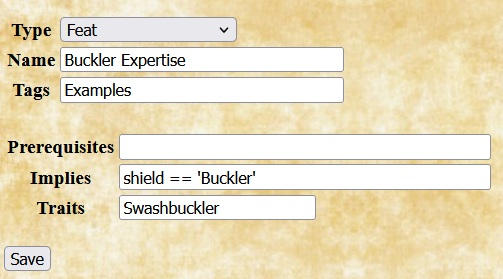
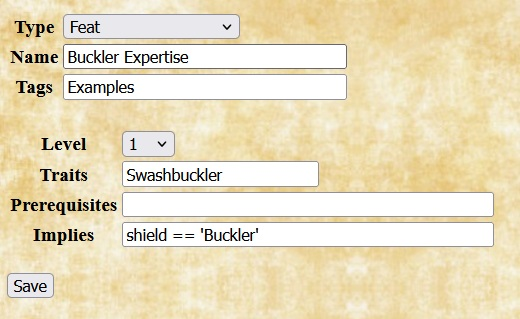
Finish work on randomizing feats.

diff --git a/plugins/Pathfinder2E.js b/plugins/Pathfinder2E.js
@@ -16339,7 +16339,7 @@ Pathfinder2E.NAME_COMPONENTS = {
     ],
     formats: ['%{syllables}']
   },
-  // Consonents and clusters taken from rule book sample names, with some
+  // Consonants and clusters taken from rule book sample names, with some
   // additional clusters that seem appropriate
   Dwarf: {
     leading: 'bdgklmnprstyz'.split(''),
@@ -16595,6 +16595,7 @@ Pathfinder2E.randomizeOneAttribute = function(attributes, attribute) {
       // It's possible that such a feat might be selected by the second pass,
       // leaving a choice unfilled, but the odds are low enough that figuring
       // out how to handle the case seems not worth the effort.
+      // See >>> note below that assumes that General is the last in this list
       subsets = [
         'Ancestry', 'Class', 'Skill', 'General',
         'Ancestry', 'Class', 'Skill', 'General'
@@ -16652,64 +16653,70 @@ Pathfinder2E.randomizeOneAttribute = function(attributes, attribute) {
           if(m) {
             debug.push(selection);
             howMany = +m[1];
-            choices = Object.keys(allChoices);
+            let subsetChoices = Object.keys(allChoices);
             if(subset == 'Ancestry') {
-              choices =
-                choices.filter(x => QuilvynUtils.getAttrValueArray(allChoices[x], 'Traits').includes(attributes.ancestry));
+              subsetChoices =
+                subsetChoices.filter(x => QuilvynUtils.getAttrValueArray(allChoices[x], 'Traits').includes(attributes.ancestry));
               for(let a in this.getChoices('ancestrys'))
                 if('features.Adopted Ancestry (' + a + ')' in attrs)
-                  choices =
-                    choices.concat(Object.keys(allChoices).filter(x => QuilvynUtils.getAttrValueArray(allChoices[x], 'Traits').includes(a)));
+                  subsetChoices =
+                    subsetChoices.concat(Object.keys(allChoices).filter(x => QuilvynUtils.getAttrValueArray(allChoices[x], 'Traits').includes(a)));
             } else if(subset == 'Class') {
-              choices =
-                choices.filter(x => QuilvynUtils.getAttrValueArray(allChoices[x], 'Traits').filter(x => x == attributes['class'] || x == 'Dedication').length > 0)
+              subsetChoices =
+                subsetChoices.filter(x => QuilvynUtils.getAttrValueArray(allChoices[x], 'Traits').filter(x => x == attributes['class'] || x == 'Dedication').length > 0);
               for(attr in attributes) {
-                if(attr.match(/^.*Dedication$/))
-                  choices =
-                    choices.concat(
+                if(attr.match(/^.*Dedication$/)) {
+                  attr = attr.replace(/^.*\./, '');
+                  debug.push('Add ' + attr + ' feats');
+                  // Most Dedication-dependent feats list the Dedication feat
+                  // in their requirements; any others won't be randomly chosen
+                  subsetChoices =
+                    subsetChoices.concat(
                       Object.keys(allChoices).filter(x => QuilvynUtils.getAttrValueArray(allChoices[x], 'Require').filter(x => x.match('features.' + attr)).length > 0)
                     );
+                }
               }
             } else if(attribute == 'feats') { // Skill or General
-              choices =
-                choices.filter(x => QuilvynUtils.getAttrValueArray(allChoices[x], 'Traits').includes(subset));
+              subsetChoices =
+                subsetChoices.filter(x => QuilvynUtils.getAttrValueArray(allChoices[x], 'Traits').includes(subset));
             } else if(attribute == 'selectableFeatures') {
-              choices =
-                choices.filter(x => QuilvynUtils.getAttrValueArray(allChoices[x], 'Type').includes(subset));
+              subsetChoices =
+                subsetChoices.filter(x => QuilvynUtils.getAttrValueArray(allChoices[x], 'Type').includes(subset));
             }
+            choices = [];
             m[2].split(/\s*,\s*/).forEach(category => {
               let maxLevel = null;
               if(category.includes('up to level')) {
                 let p = category.match(/(.*)\s+up to level\s+(.*)/);
-                console.log(category);
                 category = p[1];
-                console.log(p[2]);
                 maxLevel =
                   new Expr(p[2].replaceAll(/%\{|\}/g, '')).eval(attributes);
               }
               if(category.startsWith('any ')) {
                 // e.g., Choose 2 from any ...
                 // ... Additional Lore (name with (.*) removed),
-                // ... Gnome (trait),
-                // ... Intelligence (Ability or Attribute),
-                // ... Athletics (requirement with rank.),
-                // ... Polymath Muse (requirement with features.),
-                // ... Settlement Lore (subcategory)
-                // ... Lore (partial subcategory)
+                // ... Lore (feat partial name)
+                // ... Gnome (feat Trait),
+                // ... Intelligence (skill Ability or Attribute),
+                // ... Athletics (feat Require with rank.),
+                // ... Polymath Muse (feat Require with features.),
+                // ... Settlement Lore (feat Subcategory)
                 category = category.substring(4);
                 debug.push(category);
-                choices =
-                  choices.filter(x =>
+                choices = choices.concat(
+                  subsetChoices.filter(x =>
                     x.replace(/\s+\(.*/, '') == category ||
+                    (category == 'Lore' && x.includes(' Lore')) ||
                     QuilvynUtils.getAttrValueArray(allChoices[x], 'Traits').includes(category) ||
                     QuilvynUtils.getAttrValue(allChoices[x], 'Ability') == category ||
                     QuilvynUtils.getAttrValue(allChoices[x], 'Attribute') == category ||
-                    QuilvynUtils.getAttrValueArray(allChoices[x], 'Require').filter(x => x.match('rank.' + category)).length > 0 ||
-                    QuilvynUtils.getAttrValueArray(allChoices[x], 'Require').filter(x => x.match('features.' + category)).length > 0 ||
-                    QuilvynUtils.getAttrValueArray(allChoices[x], 'Subcategory').includes(category) ||
-                    x == 'Lore' && QuilvynUtils.getAttrValue(allChoices[x], 'Subcategory').includes('Lore')
+                    QuilvynUtils.getAttrValueArray(allChoices[x], 'Require').filter(x => x.match('(rank|features)\\.' + category) && !x.match(/==\s+0/)).length > 0 ||
+                    QuilvynUtils.getAttrValueArray(allChoices[x], 'Subcategory').includes(category)
+                  )
                 );
-              } else if(category != 'any') {
+              } else if(category == 'any') {
+                choices = choices.concat(subsetChoices);
+              } else {
                 choices.push(category);
               }
             });
@@ -16718,8 +16725,7 @@ Pathfinder2E.randomizeOneAttribute = function(attributes, attribute) {
               choices =
                 choices.filter(x => !(allChoices[x].includes('Skill')));
             } else if(subset == 'Skill') {
-              // Be careful to exclude Archetype (class) feats that also have
-              // the Skill trait
+              // Exclude Archetype feats that also have the Skill trait
               choices =
                 choices.filter(x => !(QuilvynUtils.getAttrValueArray(allChoices[x], 'Traits').includes('Archetype')));
             }
@@ -16786,7 +16792,7 @@ Pathfinder2E.randomizeOneAttribute = function(attributes, attribute) {
       });
       attrs = this.applyRules(attributes);
       if(subset == 'General')
-        // Start afresh before making the second feat pass
+        // >>> Start afresh before making the second feat pass
         allChoices = Object.assign({}, this.getChoices(attribute));
     });
     debug.push('xxxxxxx');
@@ -17103,6 +17109,12 @@ Pathfinder2E.ruleNotes = function() {
     '  following this convention when adding homebrew weapons will help when ' +
     '  generating random characters.\n' +
     '  </li><li>\n' +
+    '  Because of dependencies between feats, selectable features, and ' +
+    '  skills, Quilvyn sometimes leaves some choices unfilled when ' +
+    '  randomizing, particularly when creating higher-level random ' +
+    '  characters. You can use the Randomize menu to fill in any missed ' +
+    '  selections.\n' +
+    '  </li><li>\n' +
     '  Discussion of adding different types of homebrew options to the ' +
     '  Pathfinder rule set can be found in <a href="plugins/homebrew-pf2e.html">Pathfinder 2E Homebrew Examples</a>.\n' +
     '  </li>\n' +
@@ -17123,12 +17135,6 @@ Pathfinder2E.ruleNotes = function() {
     '  Quilvyn gives characters with the Monastic Weaponry feat proficiency ' +
     '  in any advanced monk weapons, as well as in simple and martial ones.\n' +
     '  </li>\n' +
-    '</ul>\n' +
-    '</p>\n' +
-    '\n' +
-    '<h3>Known Bugs</h3>\n' +
-    '<p>\n' +
-    '<ul>\n' +
     '</ul>\n' +
     '</p>\n';
 };

diff --git a/Test/homebrew-defined.html b/Test/homebrew-defined.html
@@ -16,7 +16,7 @@ var attributes = {
   "generalFeats.Skill Training (Religion)":1, "generalFeats.Skill Training (Society)":1, 
   "generalFeats.Skill Training (Stealth)":1, "generalFeats.Skill Training (Survival)":1, 
   "generalFeats.Skill Training (Thievery)":1, "languages.Abyssal":1, "languages.Elven":1, "name":"Homebrew-Defined", 
-  "notes":"Homebrew Ancestry Catfolk HitPoints=8 Speed=25 Size=Medium Features=\"1:Low-Light Vision\",\"1:Land On Your Feet\",\"1:Ability Boost (Charisma; Dexterity; Choose 1 from any)\",\"1:Ability Flaw (Wisdom)\" Languages=Common,Amurrun Traits=Humanoid,Catfolk\n\nHomebrew Feature \"Land On Your Feet\" Section=save Note=\"Takes half normal damage from a fall and does not land prone\"\n\nHomebrew Armor \"Mithral Chain Mail\" Category=Medium Price=1760 AC=4 Check=-2 Str=14 Speed=0 Bulk=1 Group=Chain Traits=Flexible,Noisy\n\nHomebrew Background Barber Features=\"1:Risky Surgery\",\"1:Skill Trained (Medicine; Surgery Lore)\",\"1:Ability Boost (Choose 1 from Dexterity,Wisdom; Choose 1 from any)\"\n\nHomebrew Feature \"Risky Surgery\" Section=skill Note=\"Inflicting 1d8 HP slashing on a patient gives +2 bonus and makes a success into a critical success on a subsequent Treat Wounds check\"\n\nHomebrew Class Swashbuckler Ability=Dexterity HitPoints=10 Features=1:Panache,\"1:Swashbuckler Style\",\"1:Precise Strike\",\"1:Confident Finisher\",\"1:Swashbuckler Feats\",\"1:Perception Expert\",\"1:Save Trained (Fortitude)\",\"1:Save Expert (Reflex; Will)\",\"1:Swashbuckler Skills\",\"1:Attack Trained (Simple Weapons; Martial Weapons; Unarmed Attacks)\",\"1:Defense Trained (Light Armor; Unarmored Defense)\",\"1:Class Trained (Swashbuckler)\",\"2:Skill Feats\",\"3:General Feats\",\"3:Great Fortitude\",\"3:Opportune Riposte\",\"3:Skill increase\",\"3:Stylish Trick\",\"3:Vivacious Speed\",\"5:Weapon Expertise\",7:Evasion,\"7:Weapon Specialization\",\"9:Exemplary Finisher\",\"9:Swashbuckler Expertise\",\"11:Continuous Flair\",\"11:Vigilant Senses\",\"13:Improved Evasion\",\"13:Light Armor Expertise\",\"13:Weapon Mastery\",\"15:Greater Weapon Specialization\",\"15:Keen Flair\",17:Resolve,\"19:Eternal Confidence\",\"19:Light Armor Mastery\" Selectables=\"1:Battledancer:Swashbuckler Style\",\"1:Braggart:Swashbuckler Style\",\"1:Fencer:Swashbuckler Style\",\"1:Gymnast:Swashbuckler Style\",\"1:Rascal:Swashbuckler Style\",\"1:Wit:Swashbuckler Style\"\n\nHomebrew Deity Enlil Alignment=LG FollowerAlignments=LG,LN,NG Font=Heal Skill=Nature Weapon=\"Bastard Sword\" Domain=Air,Creation,Nature Spells=\"1:Air Bubble\",\"4:Fly\",\"7:Wall Of Wind\"\n\nHomebrew Feat \"Buckler Expertise\" Imply=\"shield=='Buckler'\" Traits=Class,Swashbuckler\n\nHomebrew Feature \"Buckler Expertise\" Section=combat Note=\"Using Raise A Shield with a Buckler gives +2 AC\"\n\nHomebrew Feature \"Confident Finisher\" Section=combat Note=\"Failure with a Precise Strike inflicts half damage\" Action=1\n\nHomebrew Feature \"Swashbuckler Feats\" Section=feature Note=\"Class Feats (Choose %V from any)\"\n\nHomebrew Language Amurrun\n\nHomebrew Shield \"Mithral Shield\" Price=440 AC=2 Speed=0 Bulk=L Hardness=5 HP=20\n\nHomebrew Skill \"Asmodeus Lore\" Ability=Intelligence Category=\"Deity Lore\"\n\nHomebrew Spell \"Instant Learning\" School=Transmutation Level=4 Traditions=Arcane,Occult Cast=2 Traits=Uncommon Description=\"Touched may use effects of chosen feat while sustained up to 1 min\"\n\nHomebrew Weapon Boomerang Category=Advanced Price=5 Damage=\"1d6 B\" Bulk=L Hands=1 Group=Dart Traits=Thrown Range=30", "shield":"Mithral Shield", "skillIncreases.Asmodeus Lore":1, 
+  "notes":"Homebrew Ancestry Catfolk HitPoints=8 Speed=25 Size=Medium Features=\"1:Low-Light Vision\",\"1:Land On Your Feet\",\"1:Ability Boost (Charisma; Dexterity; Choose 1 from any)\",\"1:Ability Flaw (Wisdom)\" Languages=Common,Amurrun Traits=Humanoid,Catfolk\n\nHomebrew Feature \"Land On Your Feet\" Section=save Note=\"Takes half normal damage from a fall and does not land prone\"\n\nHomebrew Armor \"Mithral Chain Mail\" Category=Medium Price=1760 AC=4 Check=-2 Str=14 Speed=0 Bulk=1 Group=Chain Traits=Flexible,Noisy\n\nHomebrew Background Barber Features=\"1:Risky Surgery\",\"1:Skill Trained (Medicine; Surgery Lore)\",\"1:Ability Boost (Choose 1 from Dexterity,Wisdom; Choose 1 from any)\"\n\nHomebrew Feature \"Risky Surgery\" Section=skill Note=\"Inflicting 1d8 HP slashing on a patient gives +2 bonus and makes a success into a critical success on a subsequent Treat Wounds check\"\n\nHomebrew Class Swashbuckler Ability=Dexterity HitPoints=10 Features=1:Panache,\"1:Swashbuckler Style\",\"1:Precise Strike\",\"1:Confident Finisher\",\"1:Swashbuckler Feats\",\"1:Perception Expert\",\"1:Save Trained (Fortitude)\",\"1:Save Expert (Reflex; Will)\",\"1:Swashbuckler Skills\",\"1:Attack Trained (Simple Weapons; Martial Weapons; Unarmed Attacks)\",\"1:Defense Trained (Light Armor; Unarmored Defense)\",\"1:Class Trained (Swashbuckler)\",\"2:Skill Feats\",\"3:General Feats\",\"3:Great Fortitude\",\"3:Opportune Riposte\",\"3:Skill increase\",\"3:Stylish Trick\",\"3:Vivacious Speed\",\"5:Weapon Expertise\",7:Evasion,\"7:Weapon Specialization\",\"9:Exemplary Finisher\",\"9:Swashbuckler Expertise\",\"11:Continuous Flair\",\"11:Vigilant Senses\",\"13:Improved Evasion\",\"13:Light Armor Expertise\",\"13:Weapon Mastery\",\"15:Greater Weapon Specialization\",\"15:Keen Flair\",17:Resolve,\"19:Eternal Confidence\",\"19:Light Armor Mastery\" Selectables=\"1:Battledancer:Swashbuckler Style\",\"1:Braggart:Swashbuckler Style\",\"1:Fencer:Swashbuckler Style\",\"1:Gymnast:Swashbuckler Style\",\"1:Rascal:Swashbuckler Style\",\"1:Wit:Swashbuckler Style\"\n\nHomebrew Deity Enlil Alignment=LG FollowerAlignments=LG,LN,NG Font=Heal Skill=Nature Weapon=\"Bastard Sword\" Domain=Air,Creation,Nature Spells=\"1:Air Bubble\",\"4:Fly\",\"7:Wall Of Wind\"\n\nHomebrew Feat \"Buckler Expertise\" Level=1 Imply=\"shield=='Buckler'\" Traits=Class,Swashbuckler\n\nHomebrew Feature \"Buckler Expertise\" Section=combat Note=\"Using Raise A Shield with a Buckler gives +2 AC\"\n\nHomebrew Feature \"Confident Finisher\" Section=combat Note=\"Failure with a Precise Strike inflicts half damage\" Action=1\n\nHomebrew Feature \"Swashbuckler Feats\" Section=feature Note=\"Class Feats (Choose %V from any)\"\n\nHomebrew Language Amurrun\n\nHomebrew Shield \"Mithral Shield\" Price=440 AC=2 Speed=0 Bulk=L Hardness=5 HP=20\n\nHomebrew Skill \"Asmodeus Lore\" Ability=Intelligence Category=\"Deity Lore\"\n\nHomebrew Spell \"Instant Learning\" School=Transmutation Level=4 Traditions=Arcane,Occult Cast=2 Traits=Uncommon Description=\"Touched may use effects of chosen feat while sustained up to 1 min\"\n\nHomebrew Weapon Boomerang Category=Advanced Price=5 Damage=\"1d6 B\" Bulk=L Hands=1 Group=Dart Traits=Thrown Range=30", "shield":"Mithral Shield", "skillIncreases.Asmodeus Lore":1, 
   "spells.Instant Learning (A4 Tra)":1, "weapons.Boomerang":1
 };
   </script>
@@ -237,7 +237,7 @@ Homebrew Class Swashbuckler Ability=Dexterity HitPoints=10 Features=1:Panache,"1
 <br/>
 Homebrew Deity Enlil Alignment=LG FollowerAlignments=LG,LN,NG Font=Heal Skill=Nature Weapon="Bastard Sword" Domain=Air,Creation,Nature Spells="1:Air Bubble","4:Fly","7:Wall Of Wind"<br/>
 <br/>
-Homebrew Feat "Buckler Expertise" Imply="shield=='Buckler'" Traits=Class,Swashbuckler<br/>
+Homebrew Feat "Buckler Expertise" Level=1 Imply="shield=='Buckler'" Traits=Class,Swashbuckler<br/>
 <br/>
 Homebrew Feature "Buckler Expertise" Section=combat Note="Using Raise A Shield with a Buckler gives +2 AC"<br/>
 <br/>

diff --git a/plugins/homebrew-pf2e.html b/plugins/homebrew-pf2e.html
@@ -105,7 +105,7 @@ the type in the Selectable Type box ("Doctrine"); otherwise, leave the box
 empty, indicating that all characters of the given ancestry, background, or
 class gain the feature. Unlike most text boxes, the Selectable Type field only
 accepts a single value. The Replace box lists any predefined features that
-this one replaces. For class features, the Prerequisite box narrows the scope
+this one replaces. For class features, the Prerequisites box narrows the scope
 of this feature to a subset of characters in the class&mdash;for example, a
 new Champion cause that requires a particular alignment to select.
 </p><p>
@@ -205,18 +205,18 @@ The example shown gives a possible set of values for the Babylonian deity Enlil.
 <img src='../Images/hbpf2e-feat-feature.jpg' alt='Homebrew Feat'/>
 </td><td>
 <p>
-For homebrew feats, Quilvyn displays fields to note any requirements that
-must be met to select the feat and any traits associated with it. Quilvyn
-allows you to specify two kinds of requirements for a feat. The Prerequisite
-box lists any requirements that must be met to select the feat; Quilvyn
-generates a validation error if the feat is selected for a character who does
-not meet these requirements. The Implies box lists any requirements that, while
-not strictly required, make the feat useless if not met. For example, although
-the rules don't require possessing a shield to select it, the Shield Block feat
-from the core rules will be useless to a character without one. Quilvyn will
-generate a validation warning if the Implies requirements are not met. When
-specified, the Prerequisite and Implies fields will normally contain references
-to character attributes; see the discussion of
+For homebrew feats, Quilvyn displays fields to note the feat level, any
+requirements that must be met to select it, and any traits associated with it.
+Quilvyn allows you to specify two kinds of requirements for a feat. The
+Prerequisites box lists any requirements that must be met to select the feat;
+Quilvyn generates a validation error if the feat is selected for a character
+who does not meet these requirements. The Implies box lists any requirements
+that, while not strictly required, make the feat useless if not met. For
+example, although the rules don't require possessing a shield to select it, the
+Shield Block feat from the core rules will be useless to a character without
+one. Quilvyn will generate a validation warning if the Implies requirements are
+not met. When specified, the Prerequisites and Implies fields will typically
+contain references to character attributes; see the discussion of
 <a href="#attrs">using character attributes</a> for how to include these. The
 effects of a feat are entered separately as a feature.
 </p><p>
@@ -235,8 +235,8 @@ In Quilvyn, <i>features</i> describe the effects of feats, ancestry features,
 background features, and class features. When adding a homebrew feature,
 enter the section of the character sheet (one of attributes, combat, feature,
 magic, save, or skill) where the note for the feature should appear, the note
-text, and the action count or type of associated with the feature. You can
-enter multiple sections and notes, but the number of sections entered must
+text, and the action count or type of action associated with the feature. You
+can enter multiple sections and notes, but the number of sections entered must
 equal the number of notes. Feature notes can both reference and modify
 character attributes; see the discussion of
 <a href="#attrs">using character attributes</a> for how to do this.
@@ -299,7 +299,7 @@ that is related to Intelligence.
 </td><td>
 <p>
 When adding a homebrew spell, Quilvyn displays fields that allow you to enter
-the spell's school, level, tradition(s), the number of actions or amount of
+the spell's school, level, traditions, the number of actions or amount of
 time required to cast the spell, any traits associated with the spell, and the
 description of the spell. Spell descriptions can embed references to character
 attributes; see the discussion of
@@ -356,7 +356,7 @@ prerequisites when entering a homebrew feat.
 </p><p>
 Since the effects of the Alert Dodger feat come from battle experience, it
 makes sense to require a minimum level&mdash;say, 7&mdash;to take the
-feat. This is represented by adding text to the feat's Prerequisite field:
+feat. This is represented by adding text to the feat's Prerequisites field:
 </p>
 <img src='../Images/hbpf2e-attr-1.jpg' alt='Alert Dodger feat'/>
 
